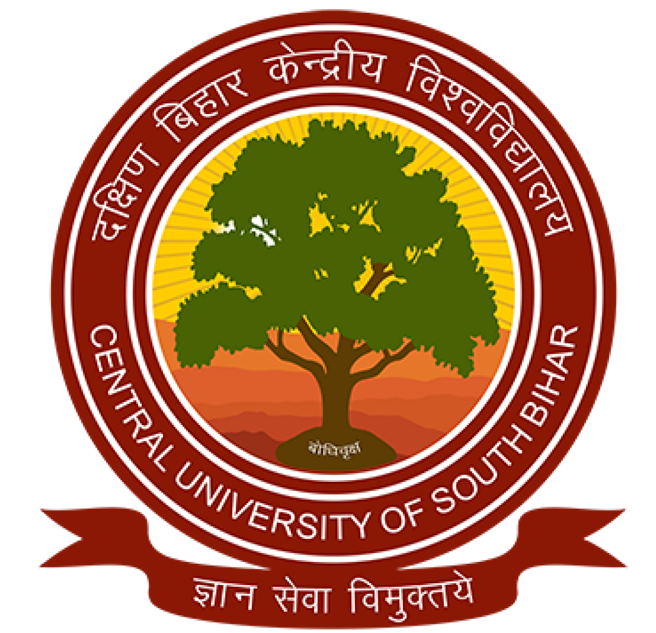
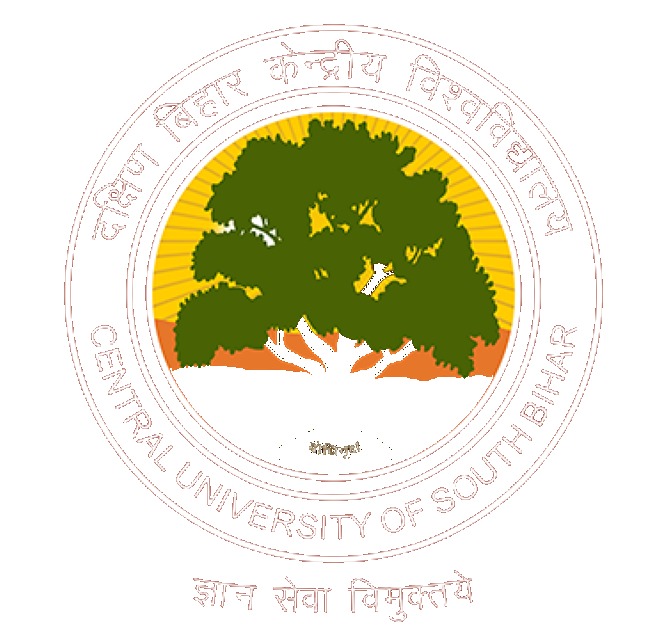
images fix

diff --git a/about-resources.html b/about-resources.html
@@ -1,6 +1,7 @@
 <!DOCTYPE html>
 <html lang="en">
 <head>
+  <link rel="icon" type="image/png" href="assets/culog.png">
   <meta charset="UTF-8">
   <meta name="viewport" content="width=device-width, initial-scale=1.0">
   <title>University Information — CUSB</title>
@@ -175,7 +176,10 @@
     <section id="logo" class="section information-alt">
       <div class="container information-panel">
         <span class="section-tag">Visual identity</span><h2 class="section-title information-title">CUSB Logo</h2>
-        <p>The Executive Council of the Central University of Bihar accepted the University logo on 20 November 2010. The present logo came into existence in August 2018. It adapts the Peepal tree, symbolising the rich culture of Bihar and representing education, wisdom and enlightenment.</p>
+        <div style="display: flex; gap: 24px; align-items: center; flex-wrap: wrap; margin-top: 15px;">
+          <img src="assets/culog.png" alt="CUSB Emblem Logo" style="max-width: 160px; height: auto; filter: drop-shadow(0 4px 10px rgba(0,0,0,0.15));" decoding="async" loading="lazy">
+          <p style="flex: 1; min-width: 280px; margin: 0;">The Executive Council of the Central University of Bihar accepted the University logo on 20 November 2010. The present logo came into existence in August 2018. It adapts the Peepal tree, symbolising the rich culture of Bihar and representing education, wisdom and enlightenment.</p>
+        </div>
       </div>
     </section>
 

diff --git a/news-events.html b/news-events.html
@@ -1,6 +1,7 @@
 <!DOCTYPE html>
 <html lang="en">
-<head><meta charset="UTF-8"><meta name="viewport" content="width=device-width, initial-scale=1.0"><title>Notices and Media - CUSB</title><meta name="description" content="Local notices, events, academic highlights, circulars and media for CUSB."><link rel="stylesheet" href="css/main.css"><link rel="stylesheet" href="css/pages.css"></head>
+<head>
+  <link rel="icon" type="image/png" href="assets/culog.png"><meta charset="UTF-8"><meta name="viewport" content="width=device-width, initial-scale=1.0"><title>Notices and Media - CUSB</title><meta name="description" content="Local notices, events, academic highlights, circulars and media for CUSB."><link rel="stylesheet" href="css/main.css"><link rel="stylesheet" href="css/pages.css"></head>
 <body>
   <a href="#mainContent" class="skip-link">Skip to main content</a><cusb-ticker></cusb-ticker><cusb-topbar></cusb-topbar><cusb-header></cusb-header><cusb-accessibility-bar></cusb-accessibility-bar><cusb-navbar></cusb-navbar>
   <main id="mainContent">

diff --git a/careers.html b/careers.html
@@ -1,6 +1,7 @@
 <!DOCTYPE html>
 <html lang="en">
-<head><meta charset="UTF-8"><meta name="viewport" content="width=device-width, initial-scale=1.0"><title>Recruitment - CUSB</title><meta name="description" content="Local recruitment notices, documents and results for CUSB."><link rel="stylesheet" href="css/main.css"><link rel="stylesheet" href="css/pages.css"></head>
+<head>
+  <link rel="icon" type="image/png" href="assets/culog.png"><meta charset="UTF-8"><meta name="viewport" content="width=device-width, initial-scale=1.0"><title>Recruitment - CUSB</title><meta name="description" content="Local recruitment notices, documents and results for CUSB."><link rel="stylesheet" href="css/main.css"><link rel="stylesheet" href="css/pages.css"></head>
 <body>
   <a href="#mainContent" class="skip-link">Skip to main content</a><cusb-ticker></cusb-ticker><cusb-topbar></cusb-topbar><cusb-header></cusb-header><cusb-accessibility-bar></cusb-accessibility-bar><cusb-navbar></cusb-navbar>
   <main id="mainContent">

diff --git a/downloads.html b/downloads.html
@@ -1,6 +1,7 @@
 <!DOCTYPE html>
 <html lang="en">
-<head><meta charset="UTF-8"><meta name="viewport" content="width=device-width, initial-scale=1.0"><title>Downloads - CUSB</title><meta name="description" content="Local document download centre for CUSB resources."><link rel="stylesheet" href="css/main.css"><link rel="stylesheet" href="css/pages.css"></head>
+<head>
+  <link rel="icon" type="image/png" href="assets/culog.png"><meta charset="UTF-8"><meta name="viewport" content="width=device-width, initial-scale=1.0"><title>Downloads - CUSB</title><meta name="description" content="Local document download centre for CUSB resources."><link rel="stylesheet" href="css/main.css"><link rel="stylesheet" href="css/pages.css"></head>
 <body>
   <a href="#mainContent" class="skip-link">Skip to main content</a><cusb-ticker></cusb-ticker><cusb-topbar></cusb-topbar><cusb-header></cusb-header><cusb-accessibility-bar></cusb-accessibility-bar><cusb-navbar></cusb-navbar>
   <main id="mainContent">

diff --git a/tenders.html b/tenders.html
@@ -1,6 +1,7 @@
 <!DOCTYPE html>
 <html lang="en">
-<head><meta charset="UTF-8"><meta name="viewport" content="width=device-width, initial-scale=1.0"><title>Tenders - CUSB</title><meta name="description" content="Local tender, EOI and procurement notices for CUSB."><link rel="stylesheet" href="css/main.css"><link rel="stylesheet" href="css/pages.css"></head>
+<head>
+  <link rel="icon" type="image/png" href="assets/culog.png"><meta charset="UTF-8"><meta name="viewport" content="width=device-width, initial-scale=1.0"><title>Tenders - CUSB</title><meta name="description" content="Local tender, EOI and procurement notices for CUSB."><link rel="stylesheet" href="css/main.css"><link rel="stylesheet" href="css/pages.css"></head>
 <body>
   <a href="#mainContent" class="skip-link">Skip to main content</a><cusb-ticker></cusb-ticker><cusb-topbar></cusb-topbar><cusb-header></cusb-header><cusb-accessibility-bar></cusb-accessibility-bar><cusb-navbar></cusb-navbar>
   <main id="mainContent">

diff --git a/pyq.html b/pyq.html
@@ -1,6 +1,7 @@
 <!DOCTYPE html>
 <html lang="en">
 <head>
+  <link rel="icon" type="image/png" href="assets/culog.png">
   <meta charset="UTF-8">
   <meta name="viewport" content="width=device-width, initial-scale=1.0">
   <title data-en="PYQ Portal — Central University of South Bihar" data-hi="पीवाईक्यू पोर्टल — दक्षिण बिहार केन्द्रीय विश्वविद्यालय">PYQ Portal — Central University of South Bihar</title>

diff --git a/about.html b/about.html
@@ -1,6 +1,7 @@
 <!DOCTYPE html>
 <html lang="en">
 <head>
+  <link rel="icon" type="image/png" href="assets/culog.png">
   <meta charset="UTF-8">
   <meta name="viewport" content="width=device-width, initial-scale=1.0">
   <title data-en="About CUSB — Central University of South Bihar" data-hi="परिचय सीयूएसबी — दक्षिण बिहार केन्द्रीय विश्वविद्यालय">About CUSB — Central University of South Bihar</title>

diff --git a/leaders.html b/leaders.html
@@ -1,6 +1,7 @@
 <!DOCTYPE html>
 <html lang="en">
 <head>
+  <link rel="icon" type="image/png" href="assets/culog.png">
   <meta charset="UTF-8">
   <meta name="viewport" content="width=device-width, initial-scale=1.0">
   <title data-en="Administration — Central University of South Bihar" data-hi="प्रशासन — दक्षिण बिहार केन्द्रीय विश्वविद्यालय">Administration — Central University of South Bihar</title>

diff --git a/index.html b/index.html
@@ -1,6 +1,7 @@
 <!DOCTYPE html>
 <html lang="en">
 <head>
+  <link rel="icon" type="image/png" href="assets/culog.png">
   <meta charset="UTF-8">
   <meta name="viewport" content="width=device-width, initial-scale=1.0">
   <title data-en="Central University of South Bihar — CUSB" data-hi="दक्षिण बिहार केन्द्रीय विश्वविद्यालय — सीयूएसबी">Central University of South Bihar — CUSB</title>

diff --git a/cif.html b/cif.html
@@ -1,6 +1,7 @@
 <!DOCTYPE html>
 <html lang="en">
 <head>
+  <link rel="icon" type="image/png" href="assets/culog.png">
   <meta charset="UTF-8">
   <meta name="viewport" content="width=device-width, initial-scale=1.0">
   <title data-en="Central Instruments Facility (CIF) — CUSB" data-hi="केंद्रीय उपकरण केंद्र (CIF) — सीयूएसबी">Central Instruments Facility (CIF) — CUSB</title>

diff --git a/cs.html b/cs.html
@@ -1,6 +1,7 @@
 <!DOCTYPE html>
 <html lang="en">
 <head>
+  <link rel="icon" type="image/png" href="assets/culog.png">
   <meta charset="UTF-8">
   <meta name="viewport" content="width=device-width, initial-scale=1.0">
   <title data-en="Department of Computer Science — CUSB" data-hi="कंप्यूटर विज्ञान विभाग — सीयूएसबी">Department of Computer Science — CUSB</title>

diff --git a/policies.html b/policies.html
@@ -1,6 +1,7 @@
 <!DOCTYPE html>
 <html lang="en">
 <head>
+  <link rel="icon" type="image/png" href="assets/culog.png">
   <meta charset="UTF-8">
   <meta name="viewport" content="width=device-width, initial-scale=1.0">
   <title data-en="Statutes, Policies & Reports — CUSB" data-hi="नियम, नीतियां और रिपोर्ट — सीयूएसबी">Statutes, Policies & Reports — CUSB</title>
